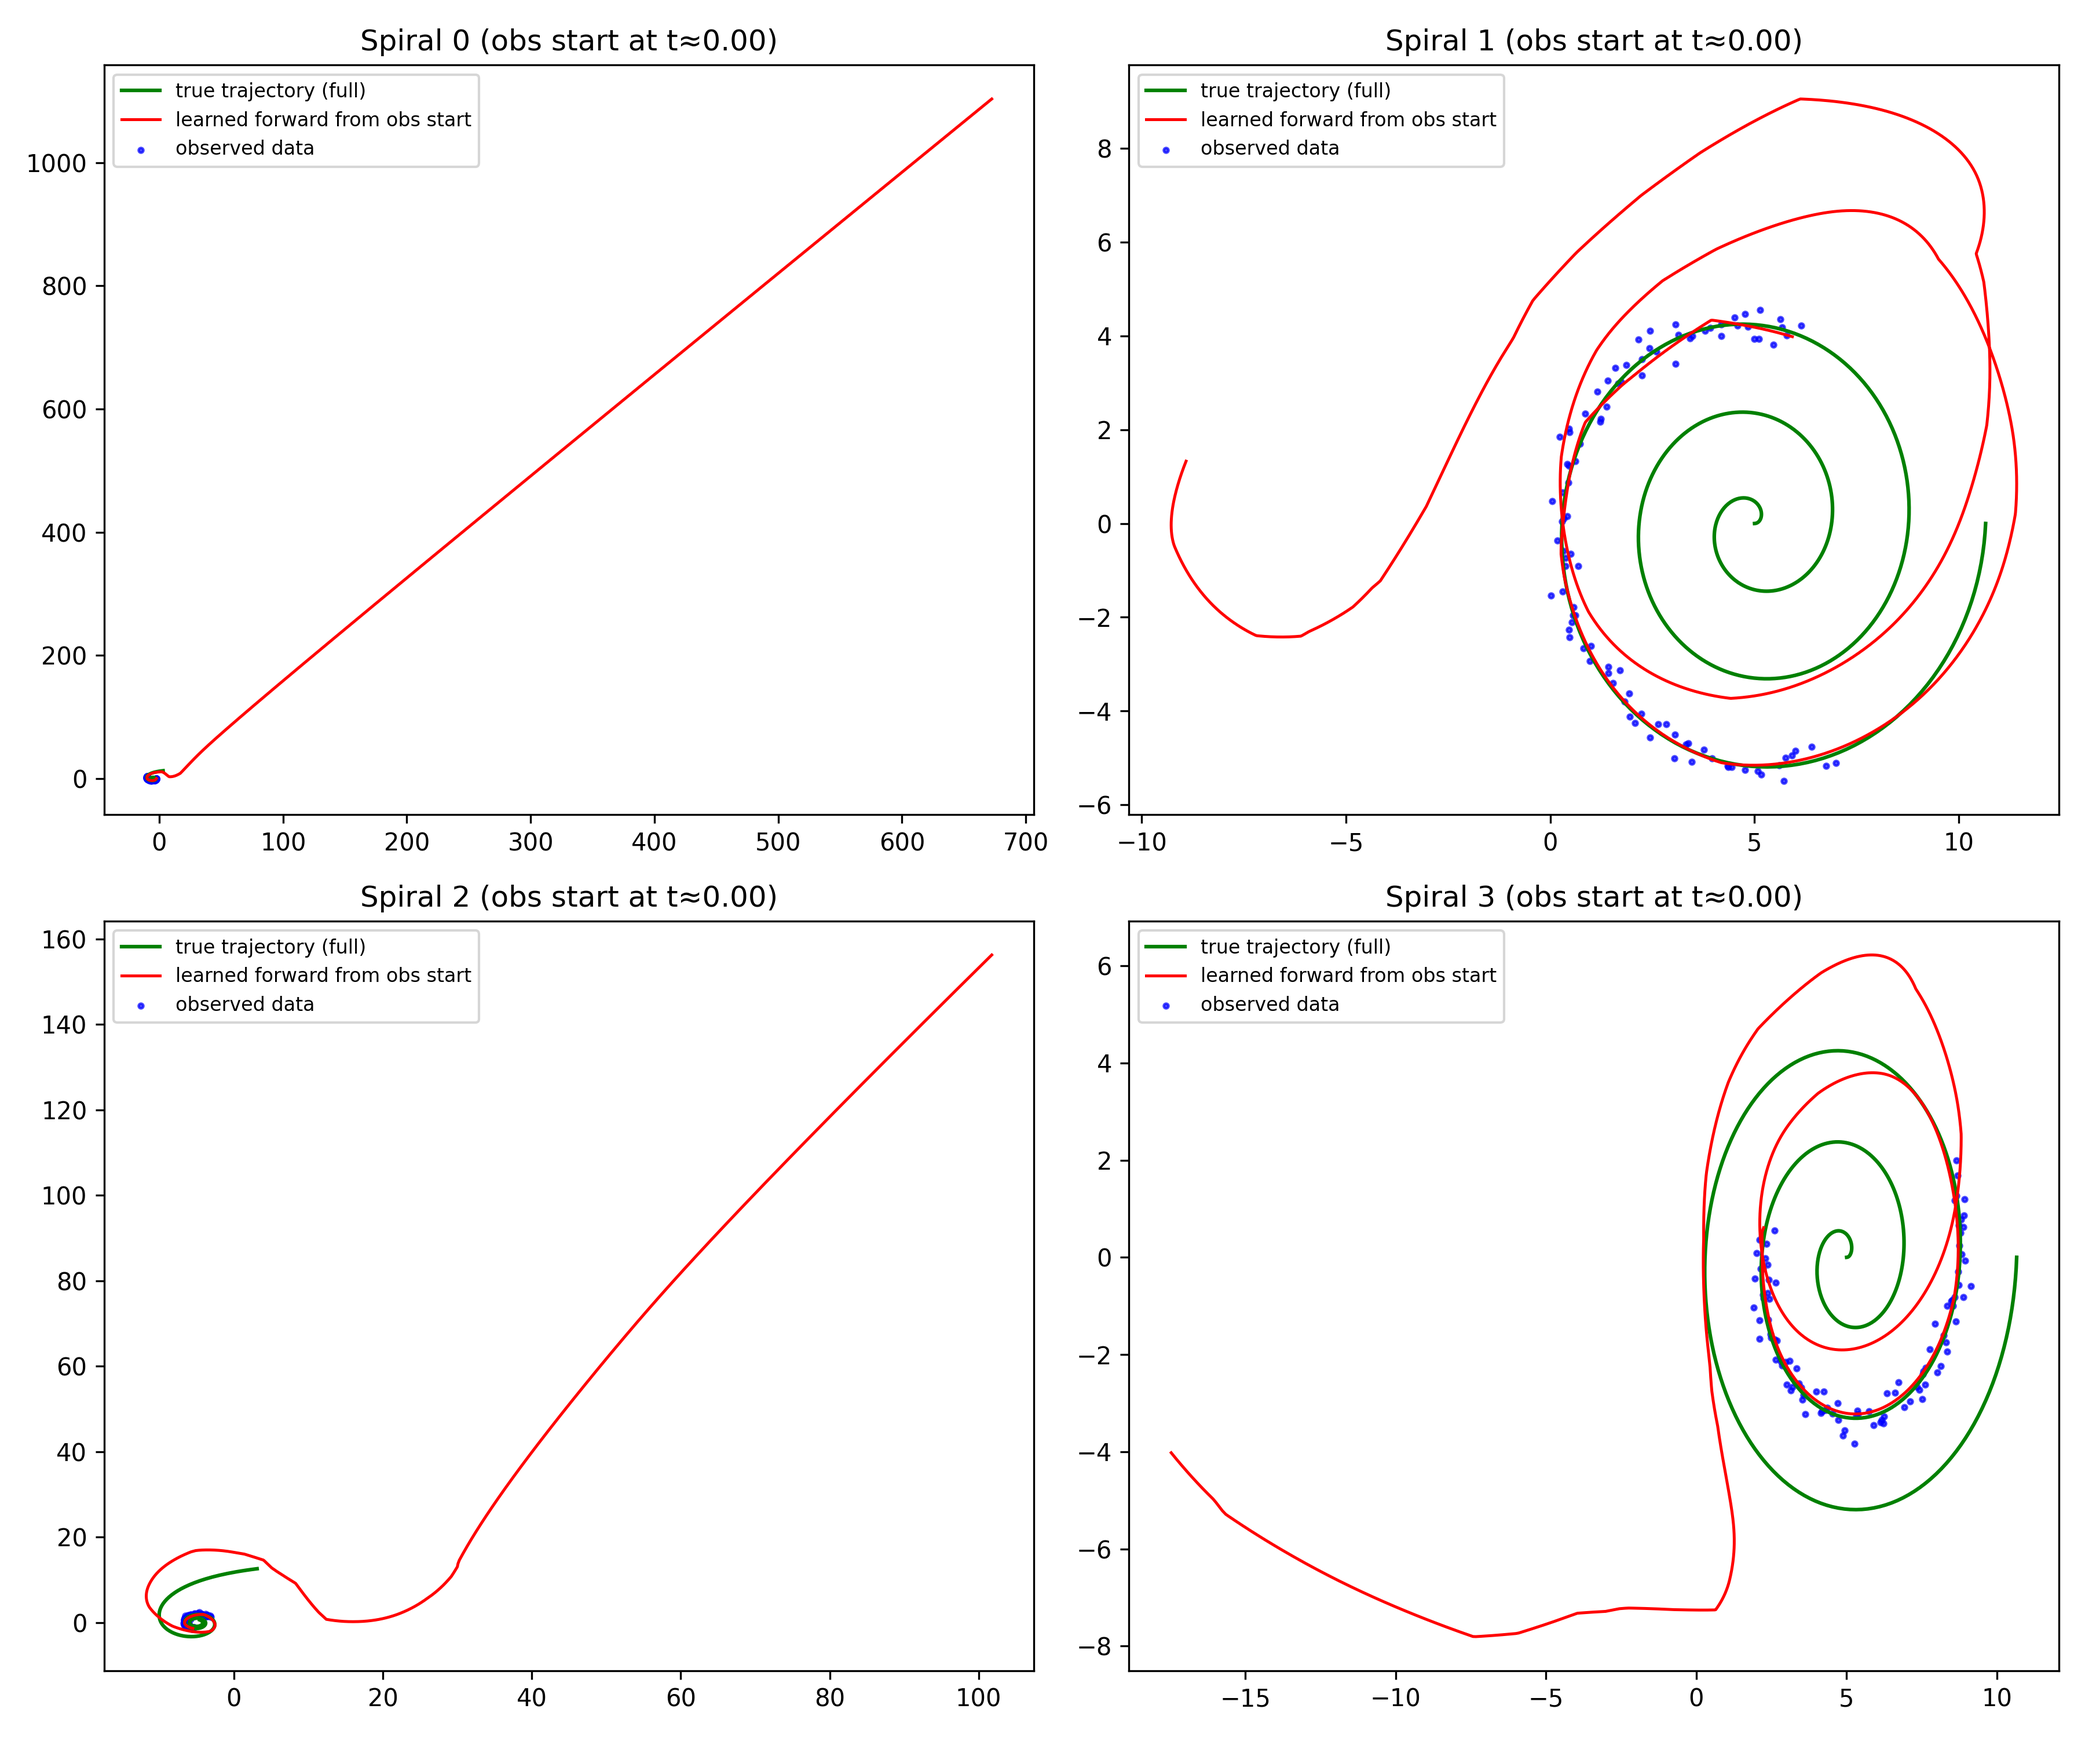
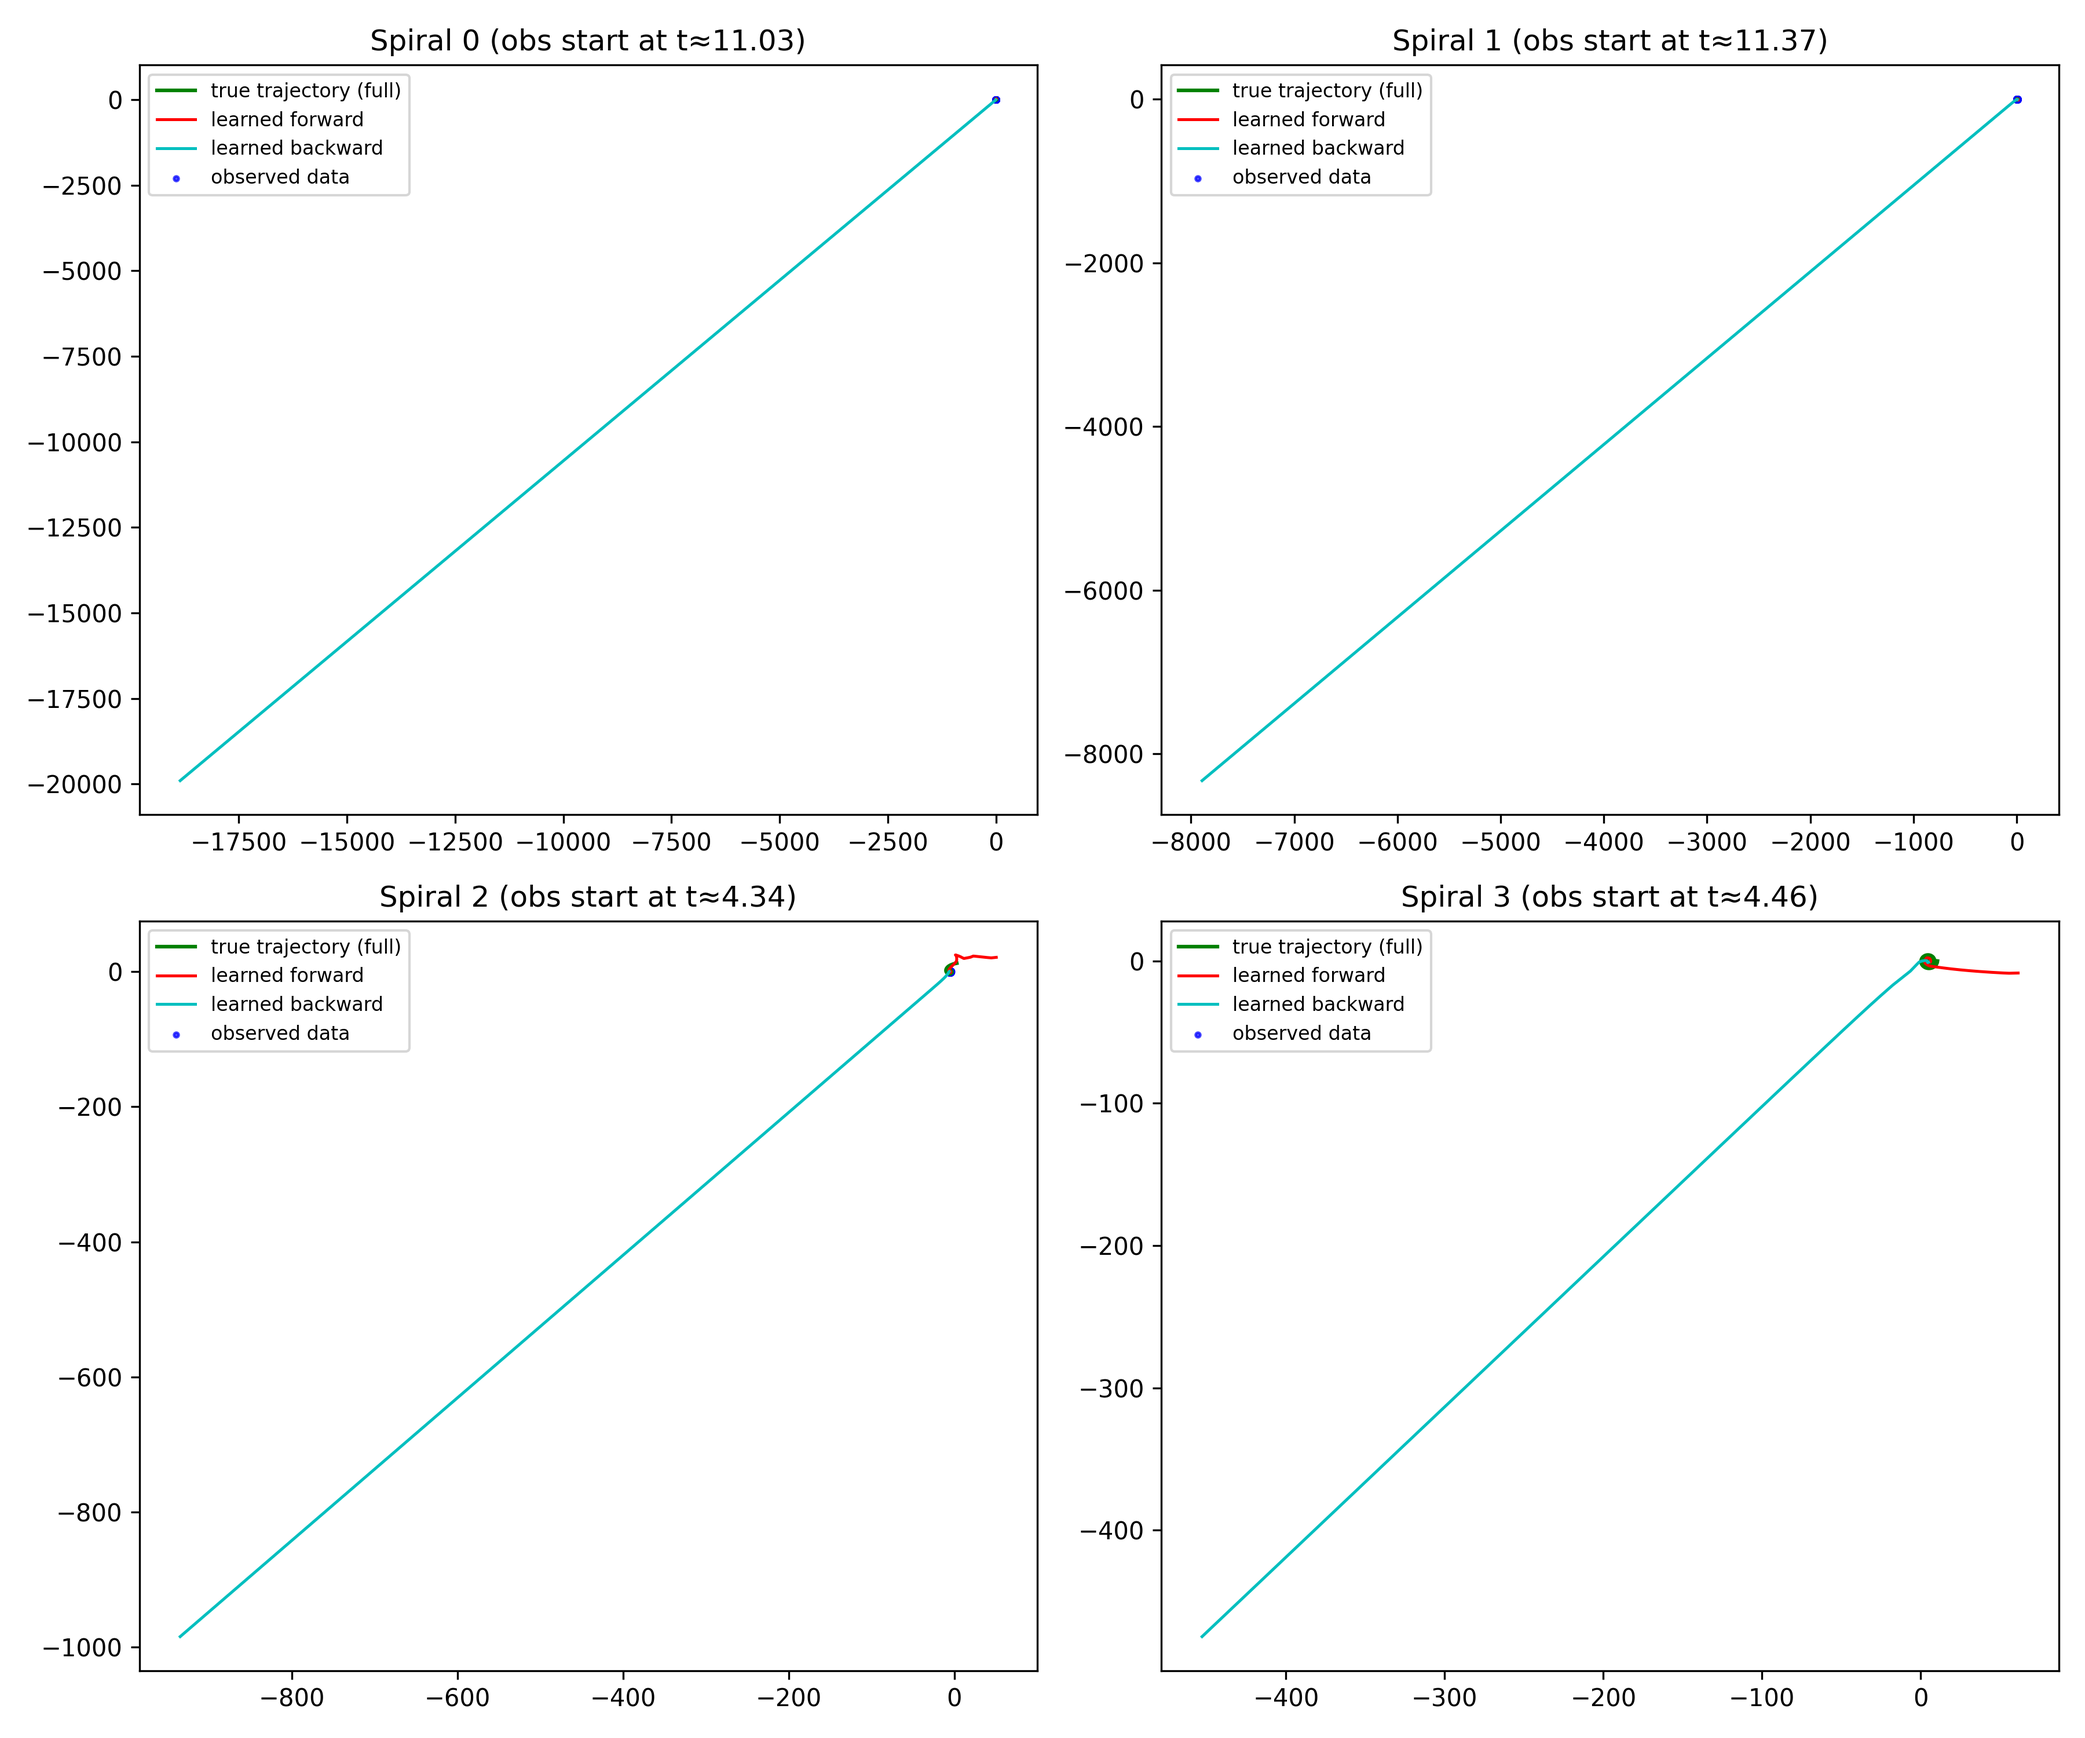
refactors for extrapolation
still dont work as intended

diff --git a/Experiments/extrapolation_experiment.py b/Experiments/extrapolation_experiment.py
@@ -25,10 +25,80 @@ def parse_args():
 
     return parser.parse_args()
 
+def generate_spiral2d(nspiral=1000,
+                      ntotal=500,
+                      nsample=100,
+                      start=0.,
+                      stop=1,  # approximately equal to 6pi
+                      noise_std=.1,
+                      a=0.,
+                      b=1.,
+                      savefig=True, 
+                      rng=None):
+    #If no rng is applied then fall back to the global state
+    if rng is None:
+        rng = np.random.mtrand._rand
+
+    # add 1 all timestamps to avoid division by 0
+    orig_ts = np.linspace(start, stop, num=ntotal)
+    samp_ts = orig_ts[:nsample]
+
+    # generate clock-wise and counter clock-wise spirals in observation space
+    # with two sets of time-invariant latent dynamics
+    zs_cw = stop + 1. - orig_ts
+    rs_cw = a + b * 50. / zs_cw
+    xs, ys = rs_cw * np.cos(zs_cw) - 5., rs_cw * np.sin(zs_cw)
+    orig_traj_cw = np.stack((xs, ys), axis=1)
+
+    zs_cc = orig_ts
+    rw_cc = a + b * zs_cc
+    xs, ys = rw_cc * np.cos(zs_cc) + 5., rw_cc * np.sin(zs_cc)
+    orig_traj_cc = np.stack((xs, ys), axis=1)
+
+    if savefig:
+        plt.figure()
+        plt.plot(orig_traj_cw[:, 0], orig_traj_cw[:, 1], label='clock')
+        plt.plot(orig_traj_cc[:, 0], orig_traj_cc[:, 1], label='counter clock')
+        plt.legend()
+        plt.savefig('./ground_truth.png', dpi=500)
+        print('Saved ground truth spiral at {}'.format('./ground_truth.png'))
+
+    # sample starting timestamps
+    orig_trajs = []
+    samp_trajs = []
+    start_idxs = []
+
+    for _ in range(nspiral):
+        # don't sample t0 very near the start or the end
+        #independently draws a new random t0 for each of the 1000 spirals. 
+        #So each trajectory gets its own random starting point, and the 100-point window 
+        #[t0_idx : t0_idx + nsample] is cut from that unique position.
+        t0_idx = rng.multinomial(
+            1, [1. / (ntotal - 2. * nsample)] * (ntotal - int(2 * nsample)))
+        t0_idx = np.argmax(t0_idx) + nsample
+        start_idxs.append(t0_idx)
+
+        cc = bool(rng.rand() > .5)  # uniformly select rotation
+        orig_traj = orig_traj_cc if cc else orig_traj_cw
+        orig_trajs.append(orig_traj)
+
+        samp_traj = orig_traj[t0_idx:t0_idx + nsample, :].copy()
+        samp_traj += rng.randn(*samp_traj.shape) * noise_std
+        samp_trajs.append(samp_traj)
+
+    # batching for sample trajectories is good for RNN; batching for original
+    # trajectories only for ease of indexing
+    orig_trajs = np.stack(orig_trajs, axis=0)
+    samp_trajs = np.stack(samp_trajs, axis=0)
+    start_idxs = np.array(start_idxs)
+
+    return orig_trajs, samp_trajs, orig_ts, samp_ts, start_idxs
+
 #Indicies of the 4 spirals
 VIZ_SPIRAL_IDX = [0, 1, 2, 3]
 
-def visualize(func, rec, dec, orig_trajs, samp_trajs, samp_ts, orig_ts_np, latent_dim, device, save_path):
+def visualize(func, rec, dec, orig_trajs, samp_trajs, samp_ts, orig_ts_np,
+              start_idxs, latent_dim, device, save_path):
     with torch.no_grad():
         fig, axes = plt.subplots(2, 2, figsize=(12, 10))
         axes = axes.flatten()
@@ -36,7 +106,7 @@ def visualize(func, rec, dec, orig_trajs, samp_trajs, samp_ts, orig_ts_np, laten
         for plot_i, spiral_idx in enumerate(VIZ_SPIRAL_IDX):
             ax = axes[plot_i]
 
-            # --- encode exactly as in training (z0 at start of this spiral's random window) ---
+            # encode exactly as training
             h = rec.initHidden().to(device)
             for t in reversed(range(samp_trajs.size(1))):
                 obs = samp_trajs[:, t, :]
@@ -44,33 +114,39 @@ def visualize(func, rec, dec, orig_trajs, samp_trajs, samp_ts, orig_ts_np, laten
             qz0_mean, qz0_logvar = out[:, :latent_dim], out[:, latent_dim:]
             epsilon = torch.randn(qz0_mean.size()).to(device)
             z0_all = epsilon * torch.exp(0.5 * qz0_logvar) + qz0_mean
-            z0 = z0_all[spiral_idx]   # z0 at the start of this spiral's observations
-
-            # === ONLY FORWARD, from the actual observation start time to full spiral end ===
-            # samp_ts[0] is the earliest time in the window (random for each spiral)
-            t_start = samp_ts[0].item() if torch.is_tensor(samp_ts) else samp_ts[0]
-            full_stop = orig_ts_np[-1]                    # 6π
-            ts_forward = torch.linspace(t_start, full_stop, 2000).float().to(device)
-
-            xs_forward = dec(odeint(func, z0, ts_forward)).cpu().numpy()
+            z0 = z0_all[spiral_idx]
 
             orig_traj = orig_trajs[spiral_idx].cpu().numpy()
             samp_traj = samp_trajs[spiral_idx].cpu().numpy()
+            t0_idx = start_idxs[spiral_idx]
+            abs_start_t = orig_ts_np[t0_idx]          # real start time for THIS spiral
+
+            # Forward extrapolation
+            ts_fwd = torch.linspace(abs_start_t, orig_ts_np[-1], 2000).float().to(device)
+            xs_fwd = dec(odeint(func, z0, ts_fwd)).cpu().numpy()
+
+            # Backward extrapolation (now trained!)
+            back_span = abs_start_t - orig_ts_np[0]   # how far back we can go
+            ts_back = torch.linspace(abs_start_t, abs_start_t - back_span, 1000).float().to(device)
+            xs_back = dec(odeint(func, z0, ts_back)).cpu().numpy()
 
             ax.plot(orig_traj[:, 0], orig_traj[:, 1],
                     'g', label='true trajectory (full)', linewidth=1.5)
-            ax.plot(xs_forward[:, 0], xs_forward[:, 1],
-                    'r', label='learned forward from obs start', linewidth=1.2)
+            ax.plot(xs_fwd[:, 0], xs_fwd[:, 1],
+                    'r', label='learned forward', linewidth=1.2)
+            ax.plot(xs_back[:, 0], xs_back[:, 1],
+                    'c', label='learned backward', linewidth=1.2)
             ax.scatter(samp_traj[:, 0], samp_traj[:, 1],
                        label='observed data', s=4, alpha=0.7, color='blue')
 
-            ax.set_title(f'Spiral {spiral_idx} (obs start at t≈{t_start:.2f})')
+            ax.set_title(f'Spiral {spiral_idx} (obs start at t≈{abs_start_t:.2f})')
             ax.legend(fontsize=8)
 
         plt.tight_layout()
         plt.savefig(save_path, dpi=300)
         plt.close()
-        print(f'Saved visualization (forward-only) at {save_path}')      
+        print(f'Saved bidirectional visualization at {save_path}')    
+     
 
 if __name__ == '__main__':
     args = parse_args()
@@ -84,17 +160,17 @@ if __name__ == '__main__':
     rnn_nhidden = 25
     obs_dim = 2
     nspiral = 1000
-    start = 0.
+    start = -3 * np.pi
     stop = 6 * np.pi
     noise_std = 0.2
     a = 0.
     b = .3
-    ntotal = 1000
+    ntotal = 1500
     nsample = 100
     device = torch.device("cuda" if torch.cuda.is_available() else "cpu")
 
     # generate toy spiral data
-    orig_trajs, samp_trajs, orig_ts, samp_ts = generate_spiral2d(
+    orig_trajs, samp_trajs, orig_ts, samp_ts, start_idxs = generate_spiral2d(
         nspiral=nspiral,
         start=start,
         stop=stop,
@@ -203,6 +279,6 @@ if __name__ == '__main__':
         visualize(
             func, rec, dec,
             orig_trajs, samp_trajs, samp_ts,
-            orig_ts, latent_dim, device,
+            orig_ts, start_idxs, latent_dim, device,
             save_path=fig_name
         )
